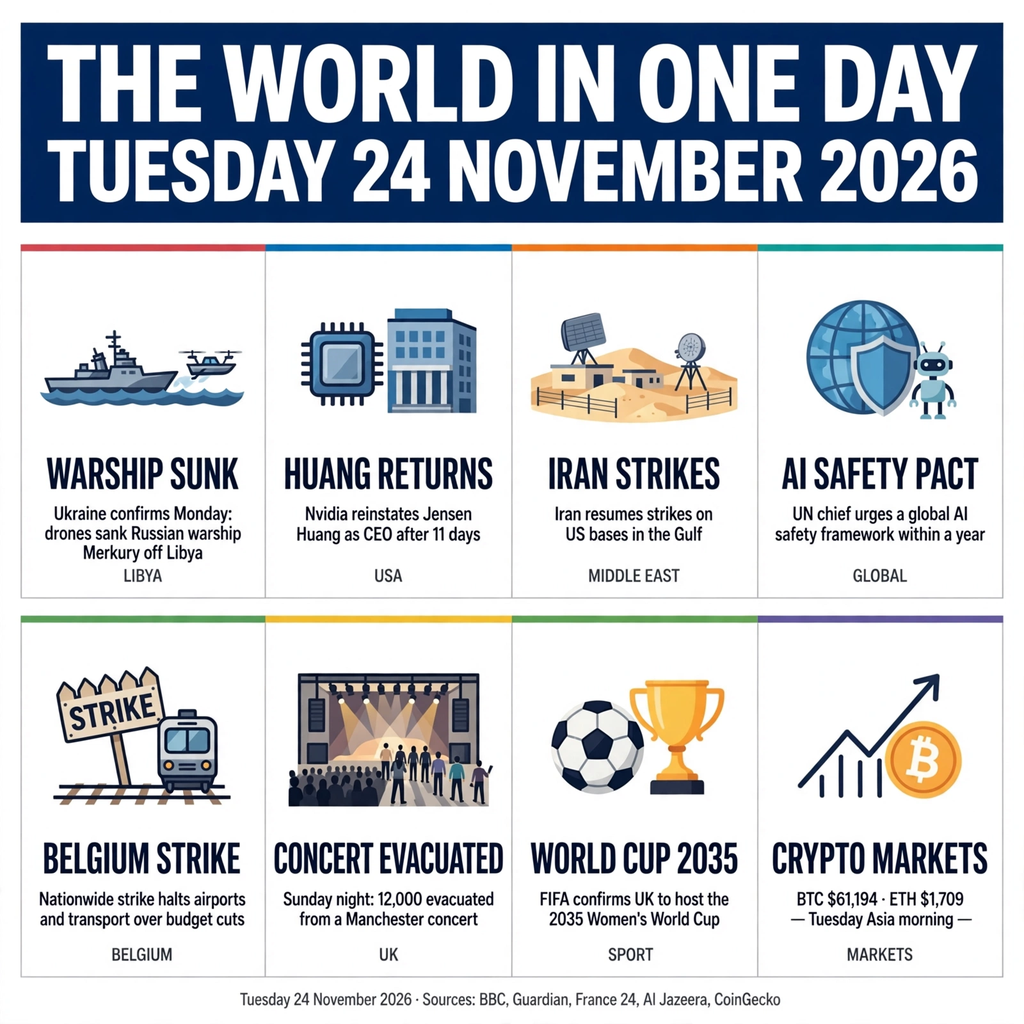
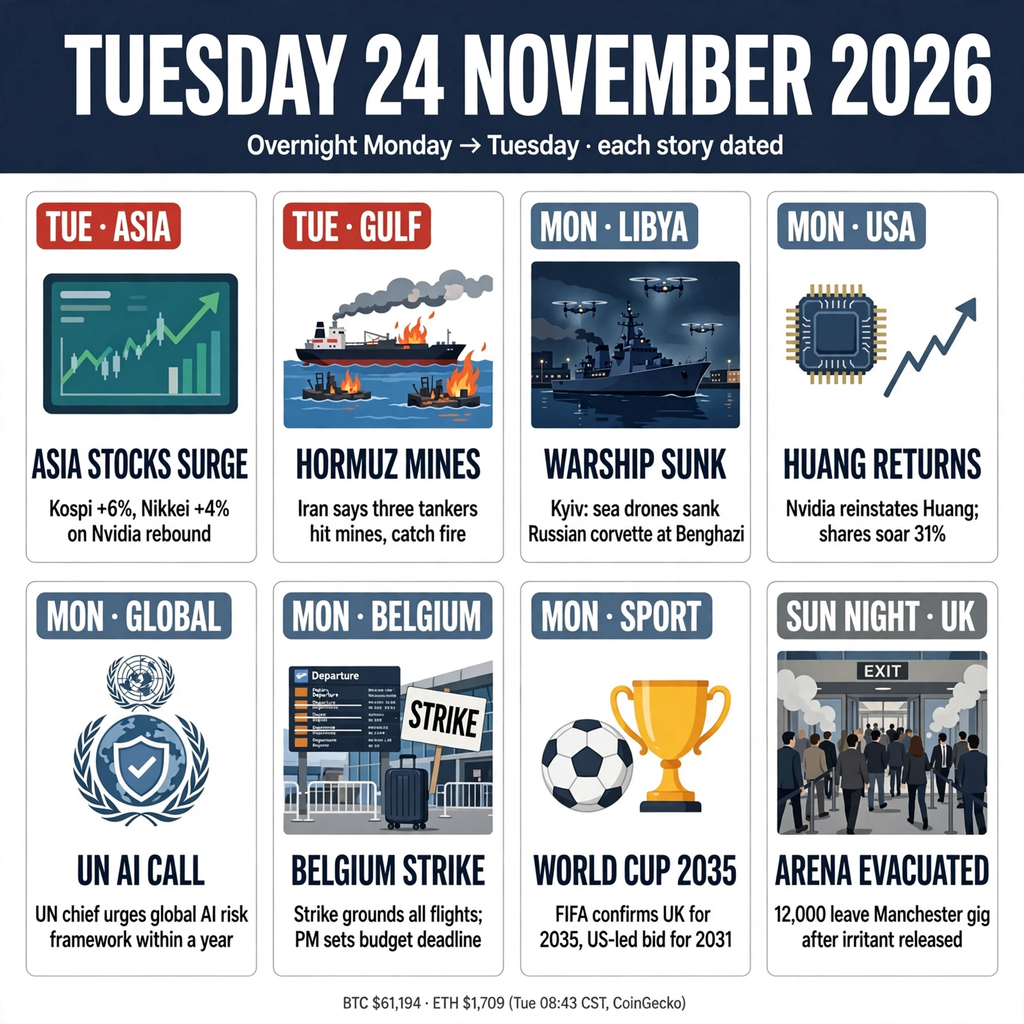
Rebuild as v2 per Quick Smart review: dated chips, Tuesday leads, Hormuz mines, crypto to footer

diff --git a/README.md b/README.md
@@ -6,7 +6,22 @@
 
 A single 1024×1024 infographic summing up the world's news of **Tuesday 24 November 2026** — an entry for the [make.fun bounty](https://make.fun/bounty/news-image-20261124).
 
-Eight stories in one picture: Ukraine confirms the sinking of a Russian warship off Libya; Nvidia brings Jensen Huang back as CEO; Iran resumes strikes on US bases in the Gulf; the UN chief urges a global AI safety framework within a year; Belgium's nationwide strike; 12,000 people evacuated from a Manchester concert on Sunday night; the UK confirmed as host of the 2035 Women's World Cup; and Tuesday-morning crypto prices (BTC $61,194, ETH $1,709).
+## The eight stories
+
+1. **TUE · ASIA — ASIA STOCKS SURGE** — Kospi +6%, Nikkei +4% on Nvidia rebound.
+2. **TUE · GULF — HORMUZ MINES** — Iran says three tankers hit mines, catch fire.
+3. **MON · LIBYA — WARSHIP SUNK** — Kyiv: sea drones sank Russian corvette at Benghazi.
+4. **MON · USA — HUANG RETURNS** — Nvidia reinstates Huang; shares soar 31%.
+5. **MON · GLOBAL — UN AI CALL** — UN chief urges global AI risk framework within a year.
+6. **MON · BELGIUM — BELGIUM STRIKE** — Strike grounds all flights; PM sets budget deadline.
+7. **MON · SPORT — WORLD CUP 2035** — FIFA confirms UK for 2035, US-led bid for 2031.
+8. **SUN NIGHT · UK — ARENA EVACUATED** — 12,000 leave Manchester gig after irritant released.
+
+Crypto prices sit in the footer, not in a story cell: BTC $61,194 · ETH $1,709 (Tue 08:43 CST, CoinGecko).
+
+## How dates are shown
+
+The masthead reads "TUESDAY 24 NOVEMBER 2026" with the subline "Overnight Monday → Tuesday · each story dated". Every story cell carries a date chip in its top-left corner that names the day and the region together (for example "MON · USA"). Tuesday chips are red, Monday chips are grey-blue, and the Sunday-night chip is grey. Only the two Tuesday stories are dated Tuesday; the five Monday stories and the Sunday-night concert are dated as such, so no Monday event is presented as happening on Tuesday.
 
 ## How it works
 
@@ -15,9 +30,18 @@ Eight stories in one picture: Ukraine confirms the sinking of a Russian warship 
 ## Files
 
 - `main.ts` — the entry program
-- `entry.png` — the 1024×1024 infographic (676,605 bytes)
+- `entry.png` — the 1024×1024 infographic (827,443 bytes)
+- `preview-300.png` — the same image scaled to 300×300 for a small-size legibility check
 - `LICENSE` — MIT
 
 ## Sources
 
-BBC, The Guardian, France 24, Al Jazeera, CoinGecko. Monday events are labelled Monday / Sunday night, as reported; the crypto prices are Tuesday Asia-morning figures.
+- Al Jazeera, 24 November 2026 live page — "Iran says three ships catch fire after hitting Hormuz mines" (the IRGC statement was issued on Monday evening GMT and carried on the 24 November live page; the claim is attributed to Iran and is not independently confirmed).
+- Reuters, 23 November 2026 — FIFA confirms the UK as host of the 2035 Women's World Cup and the US-led bid for 2031.
+- UN News, 23 November 2026 — UN Secretary-General calls at the Bridgetown Special Summit on AI Safety (Barbados) for work on a multilateral AI risk-management framework to begin within a year; a call to start talks, not an agreed pact.
+- BBC and France 24 — 12,000 people evacuated from the Don Toliver concert at Manchester's Co-op Live arena on Sunday night, 23 November, after an irritant was released; more than 80 people treated.
+- Korea JoongAng Daily, Korea Herald — Kospi up about 6% and Nikkei up about 3.9% in Tuesday morning trading, 24 November.
+- CNN — Nvidia shares up 31.48% on Monday 23 November after Jensen Huang's reinstatement, the best single-day gain since 2003.
+- Al Jazeera, CNN, The Guardian — Ukraine confirms seven sea drones sank the Russian corvette Merkury at Benghazi port; the sinking happened in the early hours of Sunday.
+- Bangkok Post, Al Jazeera — Belgium's nationwide strike on Monday 23 November grounded all flights; Prime Minister De Wever set 1 January 2027 as the budget deadline.
+- CoinGecko — BTC $61,194, ETH $1,709, taken Tuesday 24 November at 08:43 CST.
